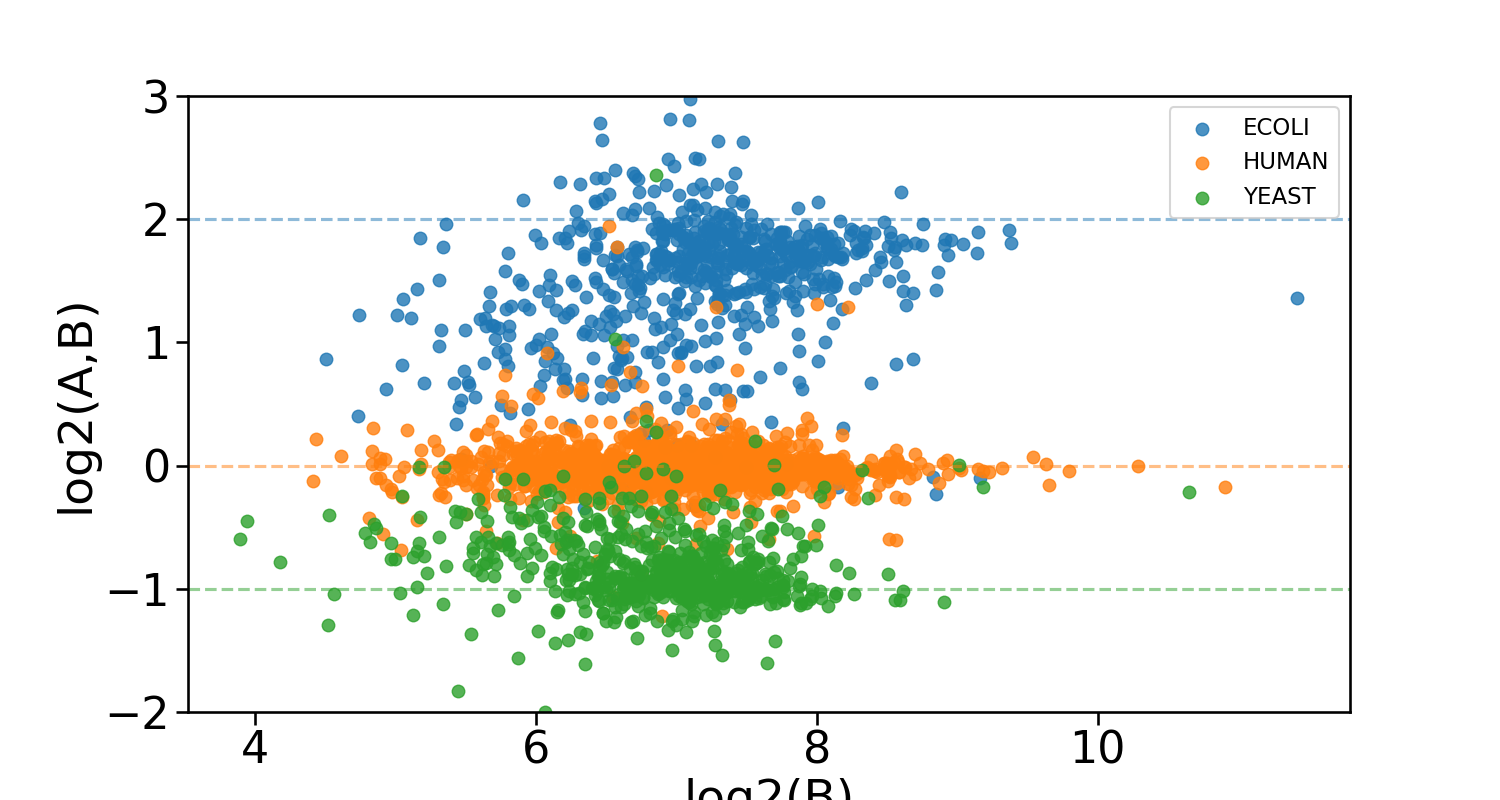
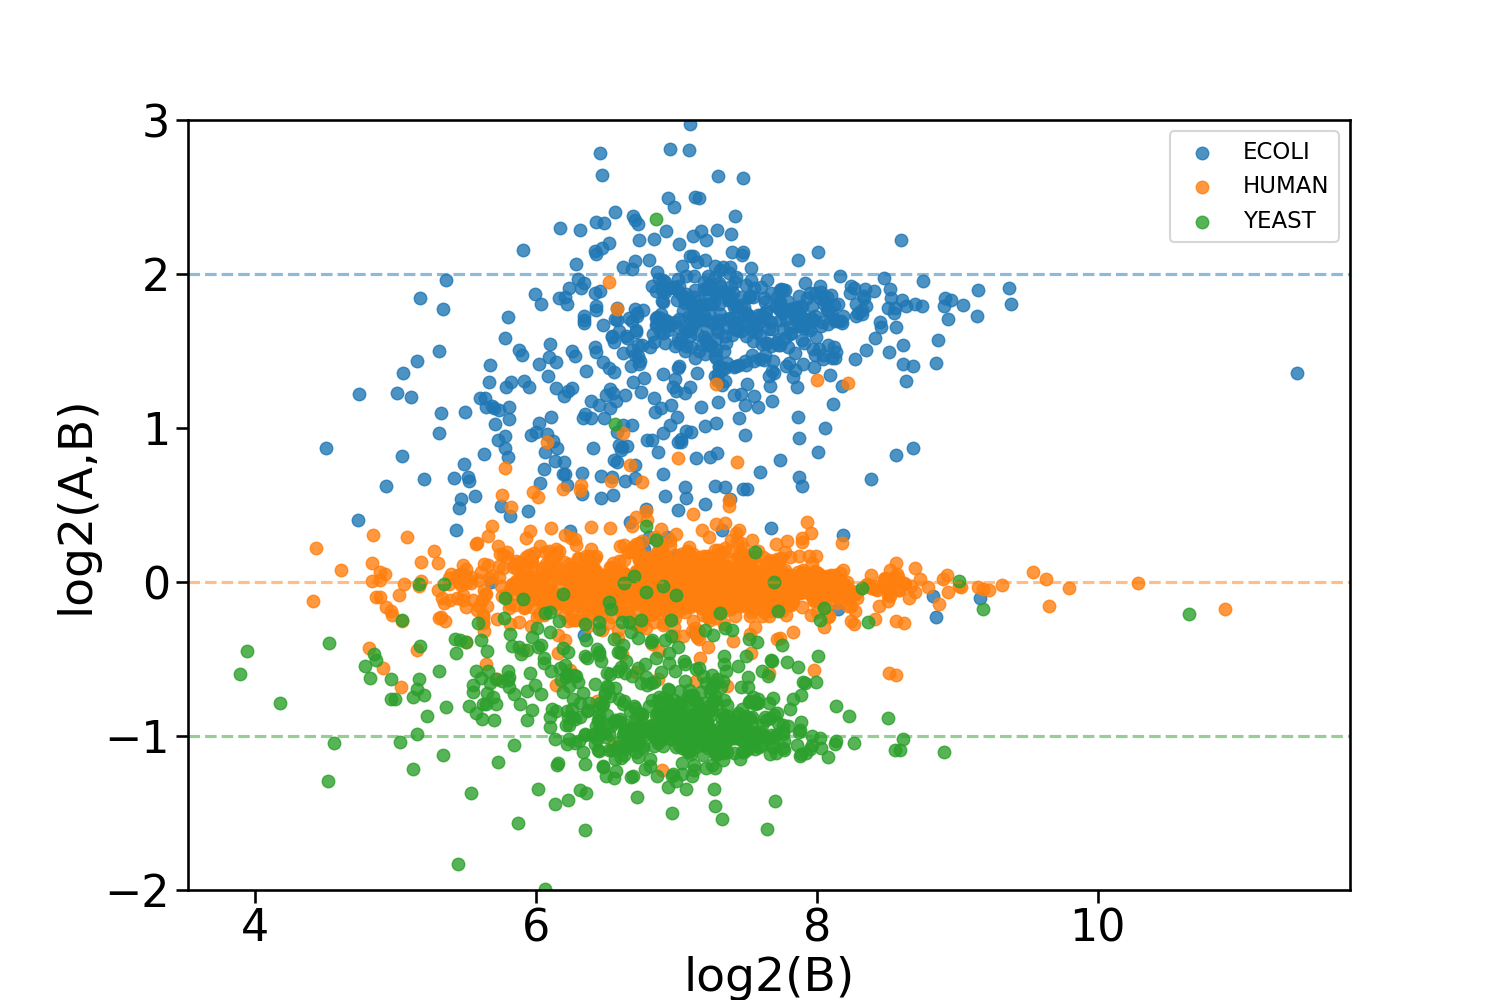
update doc, added script for number of peptide per protein calculation for triqler

diff --git a/scripts/clean/plot_msstats_number_of_peptides_per_fc_range.py b/scripts/clean/plot_msstats_number_of_peptides_per_fc_range.py
@@ -1,0 +1,97 @@
+#!/usr/bin/env python3
+# -*- coding: utf-8 -*-
+"""
+Created on Mon May 23 19:01:45 2022
+
+@author: ptruong
+"""
+
+import pandas as pd
+import numpy as np
+import seaborn as sns
+import matplotlib.pyplot as plt
+from parsers.parse_triqler import parse_triqler
+import argparse
+sns.set_context("talk")
+
+def get_stats(df, df_inp, step = 0.2):
+    """
+    use df to select proteins. They should be specie specific since each 
+    density is its own specie in the histogram.
+    """
+    means = []
+    medians = []
+    min_fc_list = []
+    max_fc_list = []
+    step = step
+    for i in np.arange(-3, 3, step):
+        min_fc = i
+        max_fc = i+step
+        proteins = df[(df["log2(A,B)"] > min_fc) & (df["log2(A,B)"] < max_fc)].ProteinName
+        min_fc_list.append(round(min_fc, 2))
+        max_fc_list.append(round(max_fc, 2))
+        means.append(df_inp[df_inp.protein.isin(proteins)].NumMeasuredFeature.mean())
+        medians.append(df_inp[df_inp.protein.isin(proteins)].NumMeasuredFeature.median())
+    res = pd.DataFrame([min_fc_list, max_fc_list, means, medians], index = ["min_fc", "max_fc", "mean", "median"]).T
+    res["log2FC"] = (res.min_fc + res.max_fc)/2
+    return res
+
+def plot_number_of_peptides_per_log2FC_range(result_file, input_file, step = 0.2):
+    df = pd.read_csv(input_file, sep = "\t")
+    df_inp = pd.read_csv(result_file, sep = ",")
+    df_inp.rename({"Protein":"protein"}, axis = 1, inplace = True)
+    step = step
+    f, ax = plt.subplots(1, 1, figsize = (15,8))
+
+    res_ecoli = get_stats(df[df.specie == "ECOLI"], df_inp, step = step) # g
+    res_yeast = get_stats(df[df.specie == "YEAST"], df_inp, step = step) # o
+    res_human = get_stats(df[df.specie == "HUMAN"], df_inp, step = step) # b
+    sns.lineplot(data = res_ecoli, x = "log2FC", y = "median", linestyle='-', color = "tab:blue", ax = ax, label = "ECOLI")
+    sns.lineplot(data = res_yeast, x = "log2FC", y = "median", linestyle='-', color = "tab:green", ax = ax, label = "YEAST")
+    sns.lineplot(data = res_human, x = "log2FC", y = "median", linestyle='-', color = "tab:orange", ax = ax, label = "HUMAN")
+    #plt.legend(labels=["ECOLI","YEAST", "HUMAN"])
+    
+    ax.legend()
+    ax.axvline(2, linestyle = "--", color="tab:blue", alpha = 0.5)
+    ax.axvline(0, linestyle = "--", color="tab:orange", alpha = 0.5)
+    ax.axvline(-1, linestyle = "--", color="tab:green", alpha = 0.5)
+    ax.set_ylim(bottom = 0)
+    #ax.set_xlim([0,10])
+    ax.set_xlabel("log2FC", fontsize=34)
+    ax.set_ylabel("median", fontsize=34)
+    
+    ax.tick_params(axis='x', which='major', labelsize=32)#labelrotation=90)
+    ax.tick_params(axis='y', which='major', labelsize=32)
+    
+    
+    fig = ax.get_figure()
+    print(f"Saving output {output}")
+    fig.savefig(output)
+    
+if __name__ == "__main__":
+    parser = argparse.ArgumentParser(
+        description='This script takes scatter plot formatted input file and results file to produces a lineplot with number of peptide per fc range.',
+        formatter_class=argparse.ArgumentDefaultsHelpFormatter)
+
+    parser.add_argument('--msstats_input_file', type=str,
+                        help='Scatterplot converter input file from msstats.')
+
+    parser.add_argument('--msstats_protein_quant_result_file', type=str,
+                        help='MSstats protein quant results file.')
+
+    parser.add_argument('--step', type=float, default = 0.2,
+                        help='Step to bin the log2FCs. Default: 0.2')
+
+    parser.add_argument('--output', type=str, 
+                        help='Output name.')
+
+
+    # parse arguments from command line
+    args = parser.parse_args()
+    input_file = args.msstats_input_file
+    result_file = args.msstats_result_file
+    output = args.output
+    step = args.step
+    df = pd.read_csv(input_file, sep = "\t")
+    plot_number_of_peptides_per_log2FC_range(result_file, input_file, step = step)
+        

diff --git a/scripts/clean/plot_msstats_msqrob_number_of_peptides_per_fc_range.py b/scripts/clean/plot_msstats_msqrob_number_of_peptides_per_fc_range.py
@@ -1,0 +1,97 @@
+#!/usr/bin/env python3
+# -*- coding: utf-8 -*-
+"""
+Created on Mon May 23 19:01:45 2022
+
+@author: ptruong
+"""
+
+import pandas as pd
+import numpy as np
+import seaborn as sns
+import matplotlib.pyplot as plt
+from parsers.parse_triqler import parse_triqler
+import argparse
+sns.set_context("talk")
+
+def get_stats(df, df_inp, step = 0.2):
+    """
+    use df to select proteins. They should be specie specific since each 
+    density is its own specie in the histogram.
+    """
+    means = []
+    medians = []
+    min_fc_list = []
+    max_fc_list = []
+    step = step
+    for i in np.arange(-3, 3, step):
+        min_fc = i
+        max_fc = i+step
+        proteins = df[(df["log2(A,B)"] > min_fc) & (df["log2(A,B)"] < max_fc)].ProteinName
+        min_fc_list.append(round(min_fc, 2))
+        max_fc_list.append(round(max_fc, 2))
+        means.append(df_inp[df_inp.protein.isin(proteins)].NumMeasuredFeature.mean())
+        medians.append(df_inp[df_inp.protein.isin(proteins)].NumMeasuredFeature.median())
+    res = pd.DataFrame([min_fc_list, max_fc_list, means, medians], index = ["min_fc", "max_fc", "mean", "median"]).T
+    res["log2FC"] = (res.min_fc + res.max_fc)/2
+    return res
+
+def plot_number_of_peptides_per_log2FC_range(result_file, input_file, step = 0.2):
+    df = pd.read_csv(input_file, sep = "\t")
+    df_inp = pd.read_csv(result_file, sep = ",")
+    df_inp.rename({"Protein":"protein"}, axis = 1, inplace = True)
+    step = step
+    f, ax = plt.subplots(1, 1, figsize = (15,8))
+
+    res_ecoli = get_stats(df[df.specie == "ECOLI"], df_inp, step = step) # g
+    res_yeast = get_stats(df[df.specie == "YEAST"], df_inp, step = step) # o
+    res_human = get_stats(df[df.specie == "HUMAN"], df_inp, step = step) # b
+    sns.lineplot(data = res_ecoli, x = "log2FC", y = "median", linestyle='-', color = "tab:blue", ax = ax, label = "ECOLI")
+    sns.lineplot(data = res_yeast, x = "log2FC", y = "median", linestyle='-', color = "tab:green", ax = ax, label = "YEAST")
+    sns.lineplot(data = res_human, x = "log2FC", y = "median", linestyle='-', color = "tab:orange", ax = ax, label = "HUMAN")
+    #plt.legend(labels=["ECOLI","YEAST", "HUMAN"])
+    
+    ax.legend()
+    ax.axvline(2, linestyle = "--", color="tab:blue", alpha = 0.5)
+    ax.axvline(0, linestyle = "--", color="tab:orange", alpha = 0.5)
+    ax.axvline(-1, linestyle = "--", color="tab:green", alpha = 0.5)
+    ax.set_ylim(bottom = 0)
+    #ax.set_xlim([0,10])
+    ax.set_xlabel("log2FC", fontsize=34)
+    ax.set_ylabel("median", fontsize=34)
+    
+    ax.tick_params(axis='x', which='major', labelsize=32)#labelrotation=90)
+    ax.tick_params(axis='y', which='major', labelsize=32)
+    
+    
+    fig = ax.get_figure()
+    print(f"Saving output {output}")
+    fig.savefig(output)
+    
+if __name__ == "__main__":
+    parser = argparse.ArgumentParser(
+        description='This script takes scatter plot formatted input file and results file to produces a lineplot with number of peptide per fc range.',
+        formatter_class=argparse.ArgumentDefaultsHelpFormatter)
+
+    parser.add_argument('--input_file', type=str,
+                        help='Scatterplot converter input file from MSstats/MsqRob2.')
+
+    parser.add_argument('--protein_quant_result_file', type=str,
+                        help='MSstats/MsqRob2 protein quant results file.')
+
+    parser.add_argument('--step', type=float, default = 0.2,
+                        help='Step to bin the log2FCs. Default: 0.2')
+
+    parser.add_argument('--output', type=str, 
+                        help='Output name.')
+
+
+    # parse arguments from command line
+    args = parser.parse_args()
+    input_file = args.input_file
+    result_file = args.protein_quant_result_file
+    output = args.output
+    step = args.step
+    df = pd.read_csv(input_file, sep = "\t")
+    plot_number_of_peptides_per_log2FC_range(result_file, input_file, step = step)
+        

diff --git a/scripts/clean/plot_triqler_number_of_peptides_per_fc_range.py b/scripts/clean/plot_triqler_number_of_peptides_per_fc_range.py
@@ -1,0 +1,104 @@
+#!/usr/bin/env python3
+# -*- coding: utf-8 -*-
+"""
+Created on Mon May 23 14:36:52 2022
+
+@author: ptruong
+"""
+
+import pandas as pd
+import numpy as np
+import seaborn as sns
+import matplotlib.pyplot as plt
+from parsers.parse_triqler import parse_triqler
+import argparse
+sns.set_context("talk")
+
+
+
+def get_stats(df, df_inp, step = 0.2):
+    """
+    use df to select proteins. They should be specie specific since each 
+    density is its own specie in the histogram.
+    """
+    means = []
+    medians = []
+    min_fc_list = []
+    max_fc_list = []
+    step = step
+    for i in np.arange(-3, 3, step):
+        min_fc = i
+        max_fc = i+step
+        proteins = df[(df["log2(A,B)"] > min_fc) & (df["log2(A,B)"] < max_fc)].ProteinName
+        min_fc_list.append(round(min_fc, 2))
+        max_fc_list.append(round(max_fc, 2))
+        means.append(df_inp[df_inp.protein.isin(proteins)].num_peptides.mean())
+        medians.append(df_inp[df_inp.protein.isin(proteins)].num_peptides.median())
+    res = pd.DataFrame([min_fc_list, max_fc_list, means, medians], index = ["min_fc", "max_fc", "mean", "median"]).T
+    res["log2FC"] = (res.min_fc + res.max_fc)/2
+    return res
+
+def plot_number_of_peptides_per_log2FC_range(result_file, input_file, step = 0.2):
+    df = pd.read_csv(input_file, sep = "\t")
+    df_inp = parse_triqler(result_file)
+    step = step
+    f, ax = plt.subplots(1, 1, figsize = (18,10))
+
+    res_ecoli = get_stats(df[df.specie == "ECOLI"], df_inp, step = step) # g
+    res_yeast = get_stats(df[df.specie == "YEAST"], df_inp, step = step) # o
+    res_human = get_stats(df[df.specie == "HUMAN"], df_inp, step = step) # b
+    sns.lineplot(data = res_ecoli, x = "log2FC", y = "median", linestyle='-', color = "tab:blue", ax = ax, label = "ECOLI")
+    sns.lineplot(data = res_yeast, x = "log2FC", y = "median", linestyle='-', color = "tab:green", ax = ax, label = "YEAST")
+    sns.lineplot(data = res_human, x = "log2FC", y = "median", linestyle='-', color = "tab:orange", ax = ax, label = "HUMAN")
+    #plt.legend(labels=["ECOLI","YEAST", "HUMAN"])
+    
+    ax.legend()
+    ax.axvline(2, linestyle = "--", color="tab:blue", alpha = 0.5)
+    ax.axvline(0, linestyle = "--", color="tab:orange", alpha = 0.5)
+    ax.axvline(-1, linestyle = "--", color="tab:green", alpha = 0.5)
+    ax.set_ylim(bottom = 0)
+    #ax.set_xlim([0,10])
+    ax.set_xlabel("log2FC", fontsize=34)
+    ax.set_ylabel("median", fontsize=34)
+    
+    ax.tick_params(axis='x', which='major', labelsize=32)#labelrotation=90)
+    ax.tick_params(axis='y', which='major', labelsize=32)
+    
+    
+    fig = ax.get_figure()
+    print(f"Saving output {output}")
+    fig.savefig(output)
+    
+if __name__ == "__main__":
+    parser = argparse.ArgumentParser(
+        description='This script takes scatter plot formatted input file and results file to produces a lineplot with number of peptide per fc range.',
+        formatter_class=argparse.ArgumentDefaultsHelpFormatter)
+
+    parser.add_argument('--triqler_input_file', type=str,
+                        help='Scatterplot converter input file from triqler.')
+
+    parser.add_argument('--triqler_result_file', type=str,
+                        help='Triqler results file.')
+
+    parser.add_argument('--step', type=float, default = 0.2,
+                        help='Step to bin the log2FCs. Default: 0.2')
+
+    parser.add_argument('--output', type=str, 
+                        help='Output name.')
+
+
+    # parse arguments from command line
+    args = parser.parse_args()
+    input_file = args.triqler_input_file
+    result_file = args.triqler_result_file
+    output = args.output
+    step = args.step
+    df = pd.read_csv(input_file, sep = "\t")
+    plot_number_of_peptides_per_log2FC_range(result_file, input_file, step = step)
+        
+
+
+
+    
+
+

diff --git a/doc/benchmark/benchmark.tex b/doc/benchmark/benchmark.tex
@@ -151,7 +151,7 @@ To filter the database file to a single sequence per protein database, we implem
 We applied Triqler, MSstats, MSqRob2, and Top3(see the Methods section) to the peptide abundances derived from the ID and PS workflows.  
 
 The LFQBench set contains varying concentrations of {\em E. Coli} and yeast concentrations in a background of HeLa-cells. To get an overview of the results of the methods we plotted histograms of the reported protein level fold-changes as reported by the compared methods in Figure \ref{fig:fc_histogram}. In the histograms, we included lines indicating the actual fold change of the pipetted whole-cell lysate concentrations as a reference.
-We observe that Triqler and Top3 have less bias than MSstats and MSqRob2, by the qualitative observation that the apex of the distributions is centered more closely to the lysate mixture rates. MSstats and MSqRob2 have distribution apexes that for each specie are slight to the left of the true lysate mixture rates. We also observe that the apex of the distributions has higher values for Triqler than the other methods. We also observe in Figure \ref{fig:fc_scatter} that the regression line goes towards the true fold-change values for Triqler, while it remains constantly postive for Top3, MSstats and MSqRob2. 
+We observe that Triqler and Top3 have less bias than MSstats and MSqRob2, by the qualitative observation that the apex of the distributions is centered more closely to the lysate mixture rates. MSstats and MSqRob2 have distribution apexes that for each specie are slight to the left of the true lysate mixture rates. We also observe that the apex of the distributions has higher values for Triqler than the other methods. We also observe in Figure \ref{fig:fc_scatter} that the regression line goes towards the true fold-change values for Triqler, while it remains constantly postive for Top3, MSstats and MSqRob2. We also observe that Triqler has longer tails for the estimated yeast and {\em E. Coli} fold change distributions. These values are explained by proteins quantified with fewer peptides, i.e. less certain protein quantification. A figure of number of peptides per protein in different fold change regions can be seen in the supplement \ref{fig:number_of_peptides_supplement}.
  
 \begin{figure}[hbt]
     \centering

diff --git a/doc/benchmark/supplement.tex b/doc/benchmark/supplement.tex
@@ -265,5 +265,17 @@ Yeast   & 6 050      & 5 848      & 5 847                       \\ \hline
 \end{figure}
 
 
+\subsubsection*{Number of peptides per protein for Triqler estimated fold change regions}
+\begin{figure}[hbt]
+    \centering
+    \centering
+    \begin{tabular}{lclc} 
+        A \includegraphics[width=0.5\linewidth]{../../result/report_plots_pipeline/fc_peptide_count_ID_triqler.png} & &
+        B \includegraphics[width=0.5\linewidth]{../../result/report_plots_pipeline/fc_peptide_count_PS_triqler.png} & \\
+    \end{tabular}
+  \caption{{\bf Number of peptides per protein for Triqler in different log2FC regions.} We binned the peptides into regions of 0.1 ranged bins of estimated fold change and plotted them median for all bins between [-2,3] and show that proteins close the true specie ratio have higher peptide count than in between the regions. (A) is the ID pipeline and (B) is the PS pipeline \label{fig:number_of_peptides_supplement}}
+\end{figure}
+
+
 
 \end{document}

diff --git a/scripts/clean/plot_scatter.py b/scripts/clean/plot_scatter.py
@@ -26,7 +26,7 @@ def plot_scatterplot(df, output, fdr_threshold = 1.00):
     df = df[np.isfinite(df["2"])]
     df = df[np.isfinite(df["log2(A,B)"])]
     
-    f, ax = plt.subplots(1, 1, figsize = (15,8))
+    f, ax = plt.subplots(1, 1, figsize = (15,10))
     sns.regplot(data = df[df.specie == "ECOLI"], x = "2", y = "log2(A,B)", ax = ax, line_kws = {"ls":"--"}, label ="ECOLI", fit_reg = False)
     sns.regplot(data = df[df.specie == "HUMAN"], x = "2", y = "log2(A,B)", ax = ax, line_kws = {"ls":"--"}, label = "HUMAN", fit_reg = False)
     sns.regplot(data = df[df.specie == "YEAST"], x = "2", y = "log2(A,B)", ax = ax, line_kws = {"ls":"--"}, label = "YEAST", fit_reg = False)
